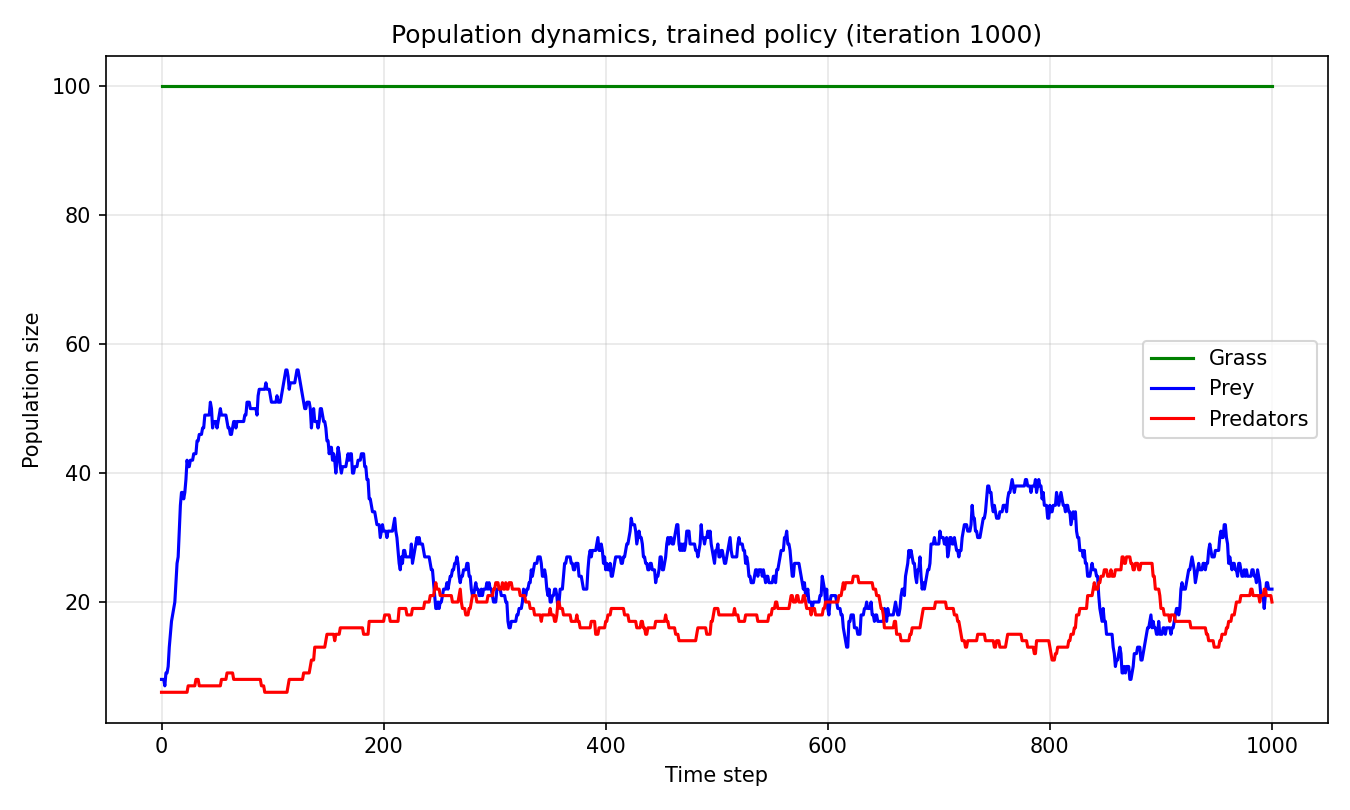
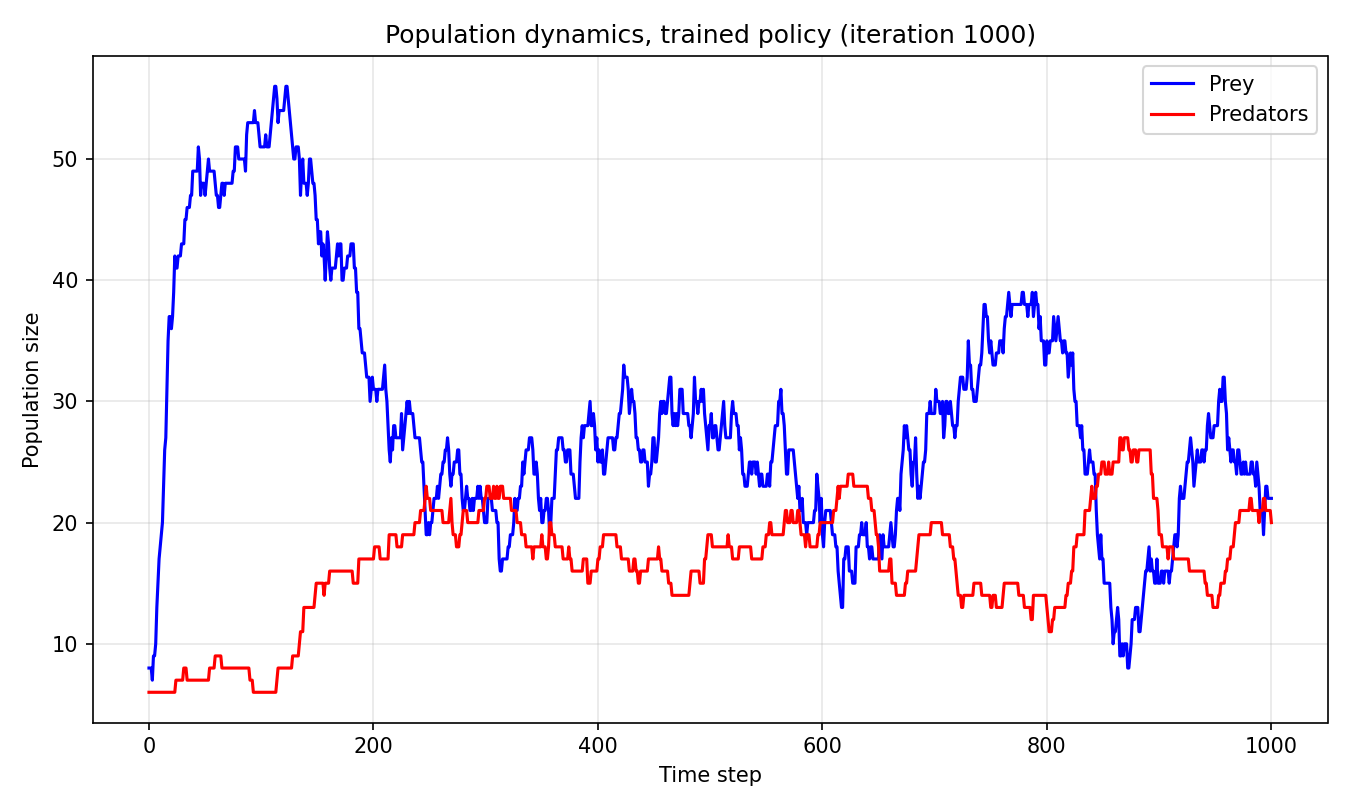
Drop old LV chart from base_environment README, regenerate new one without grass
Grass sits flat near carrying capacity for the whole episode, so plotting it
alongside predator/prey squeezed the y-axis against a 0-100 scale dominated
by that flat line. Add --no-grass to plot_population_dynamics.py and
regenerate the SEED42 chart with it, which lets the y-axis autoscale to the
predator/prey range and makes the lagged oscillation easier to read.

The old PredPreyPopulation_episode.png image is still used by
base_environment_seasonal/README.md, so left in place.

diff --git a/predpreygrass/non_evolutionary/base_environment/plot_population_dynamics.py b/predpreygrass/non_evolutionary/base_environment/plot_population_dynamics.py
@@ -29,6 +29,13 @@ def parse_args():
     parser.add_argument("--max-steps", type=int, default=None, help="Override config_env's max_steps.")
     parser.add_argument("--output", type=str, default="population_dynamics.png")
     parser.add_argument("--title", type=str, default=None)
+    parser.add_argument(
+        "--no-grass", action="store_true",
+        help="Omit the grass line. Grass sits flat near its carrying capacity "
+             "for the whole episode, so leaving it out lets the y-axis "
+             "autoscale to the (much smaller, more visually interesting) "
+             "predator/prey range instead of being dominated by grass's scale.",
+    )
     return parser.parse_args()
 
 
@@ -78,7 +85,8 @@ if __name__ == "__main__":
           f"predators={env.current_num_predators}, prey={env.current_num_prey}, grass={env.current_num_grass}")
 
     plt.figure(figsize=(9, 5.4))
-    plt.plot(steps, grass_counts, label="Grass", color="green")
+    if not args.no_grass:
+        plt.plot(steps, grass_counts, label="Grass", color="green")
     plt.plot(steps, prey_counts, label="Prey", color="blue")
     plt.plot(steps, predator_counts, label="Predators", color="red")
     plt.xlabel("Time step")

diff --git a/predpreygrass/non_evolutionary/base_environment/README.md b/predpreygrass/non_evolutionary/base_environment/README.md
@@ -52,15 +52,7 @@ Moreover, these learning behaviors lead to more complex emergent dynamics at the
 
 - The trained policies make the ecosystem perpetuate much longer than a random policy.
 
-- The trained agents are displaying some sort of the classic [Lotka–Volterra](https://en.wikipedia.org/wiki/Lotka%E2%80%93Volterra_equations) pattern over time:
-
-<p align="center">
-    <img src="../../../assets/images/readme/PredPreyPopulation_episode.png" width="450" height="270"/>
-</p>
-
-Same pattern from the current SEED42 run's final (iteration 1000) checkpoint, a full
-1000-step self-play episode: grass saturates at carrying capacity, prey booms then
-settles into oscillation, predators track prey with a lag.
+- The trained agents are displaying some sort of the classic [Lotka–Volterra](https://en.wikipedia.org/wiki/Lotka%E2%80%93Volterra_equations) pattern over time. Below: a full 1000-step self-play episode from the SEED42 run's final (iteration 1000) checkpoint. Prey booms early, then predators catch up and the two settle into a lagged oscillation for the rest of the episode (grass, which sits flat near its carrying capacity throughout, is omitted so the predator/prey cycle is easier to read):
 
 <p align="center">
     <img src="../../../assets/images/readme/population_dynamics_seed42_iter1000.png" width="450" height="270"/>
